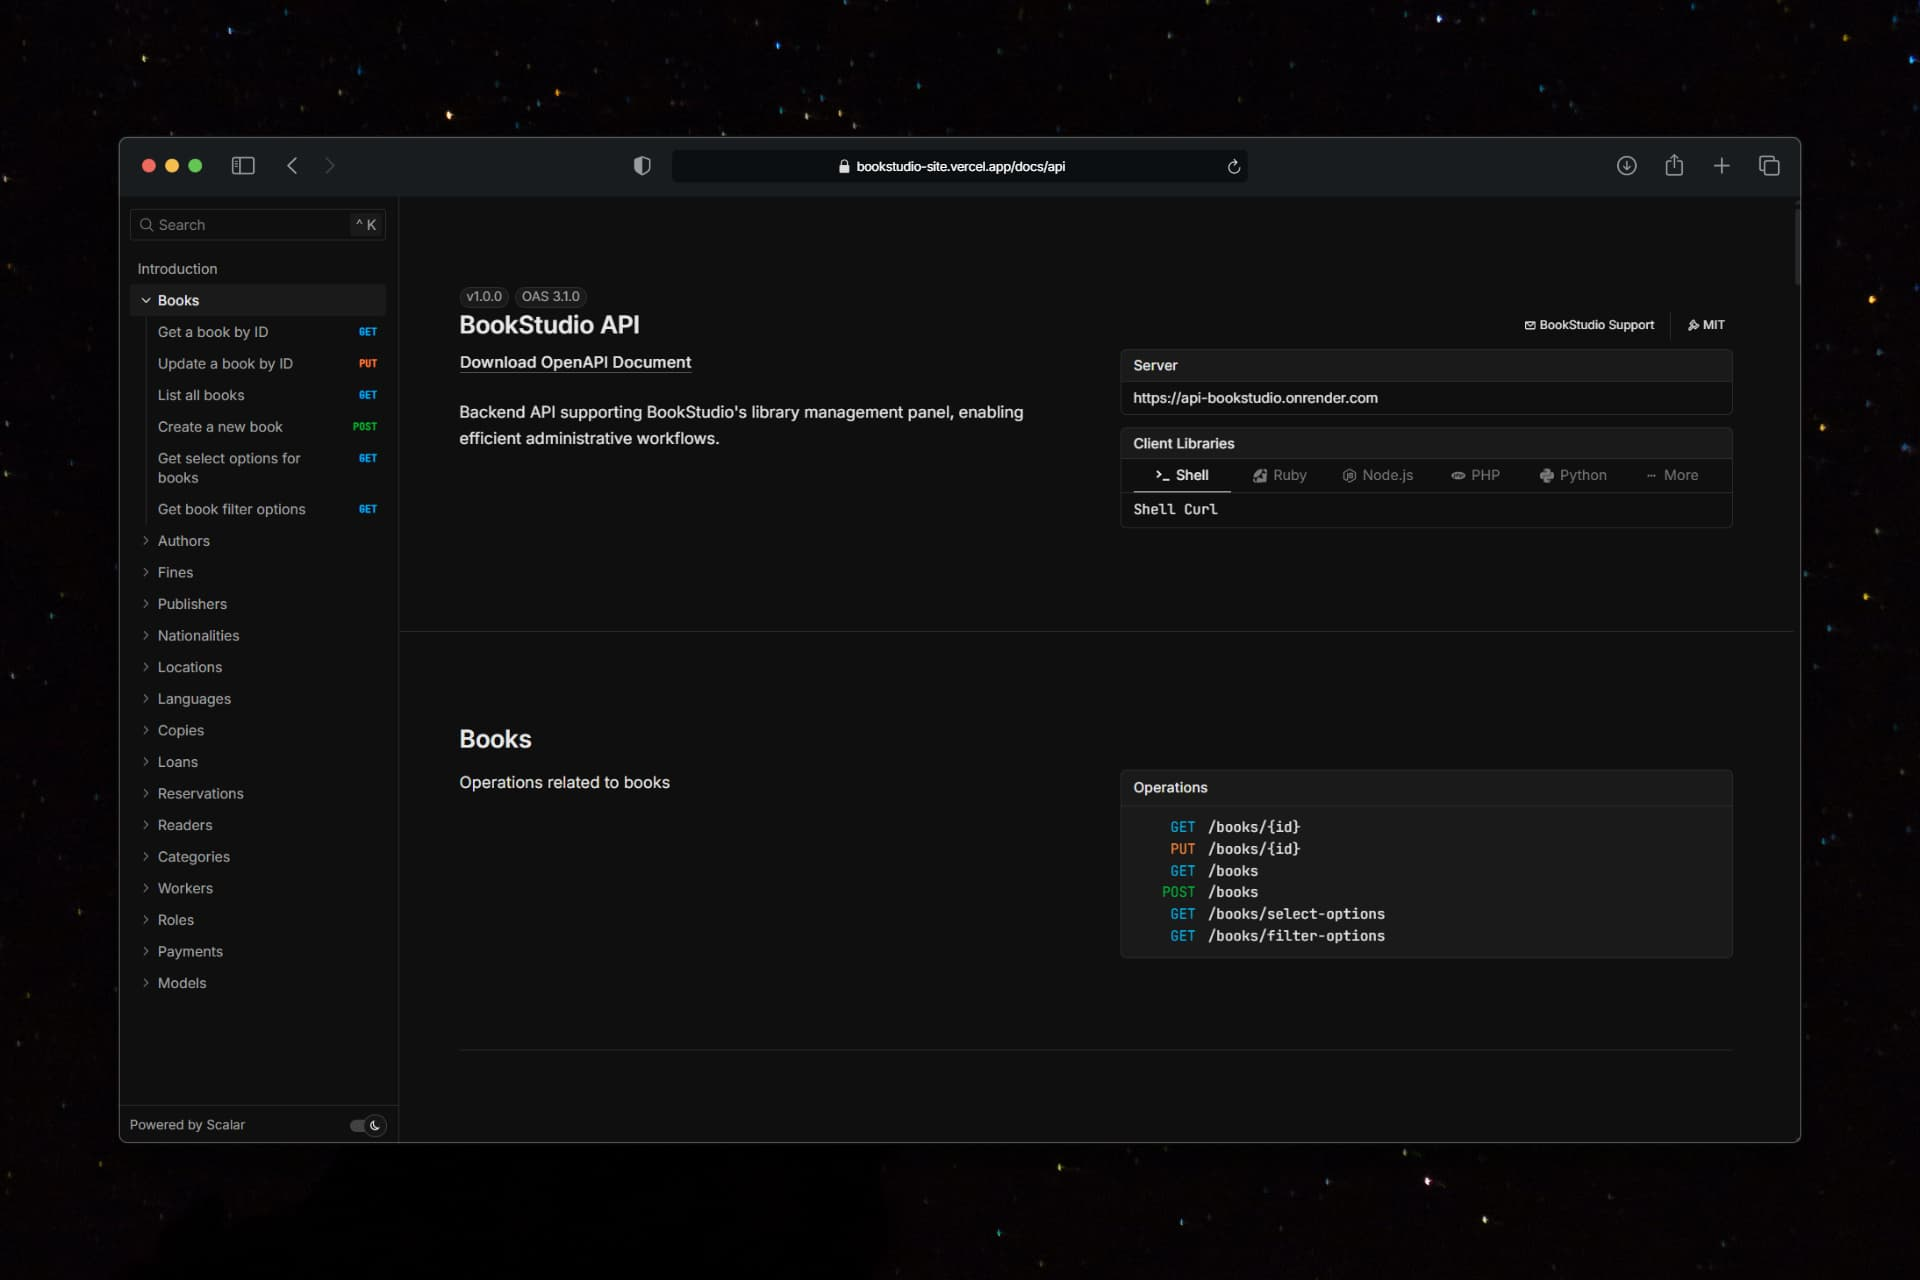
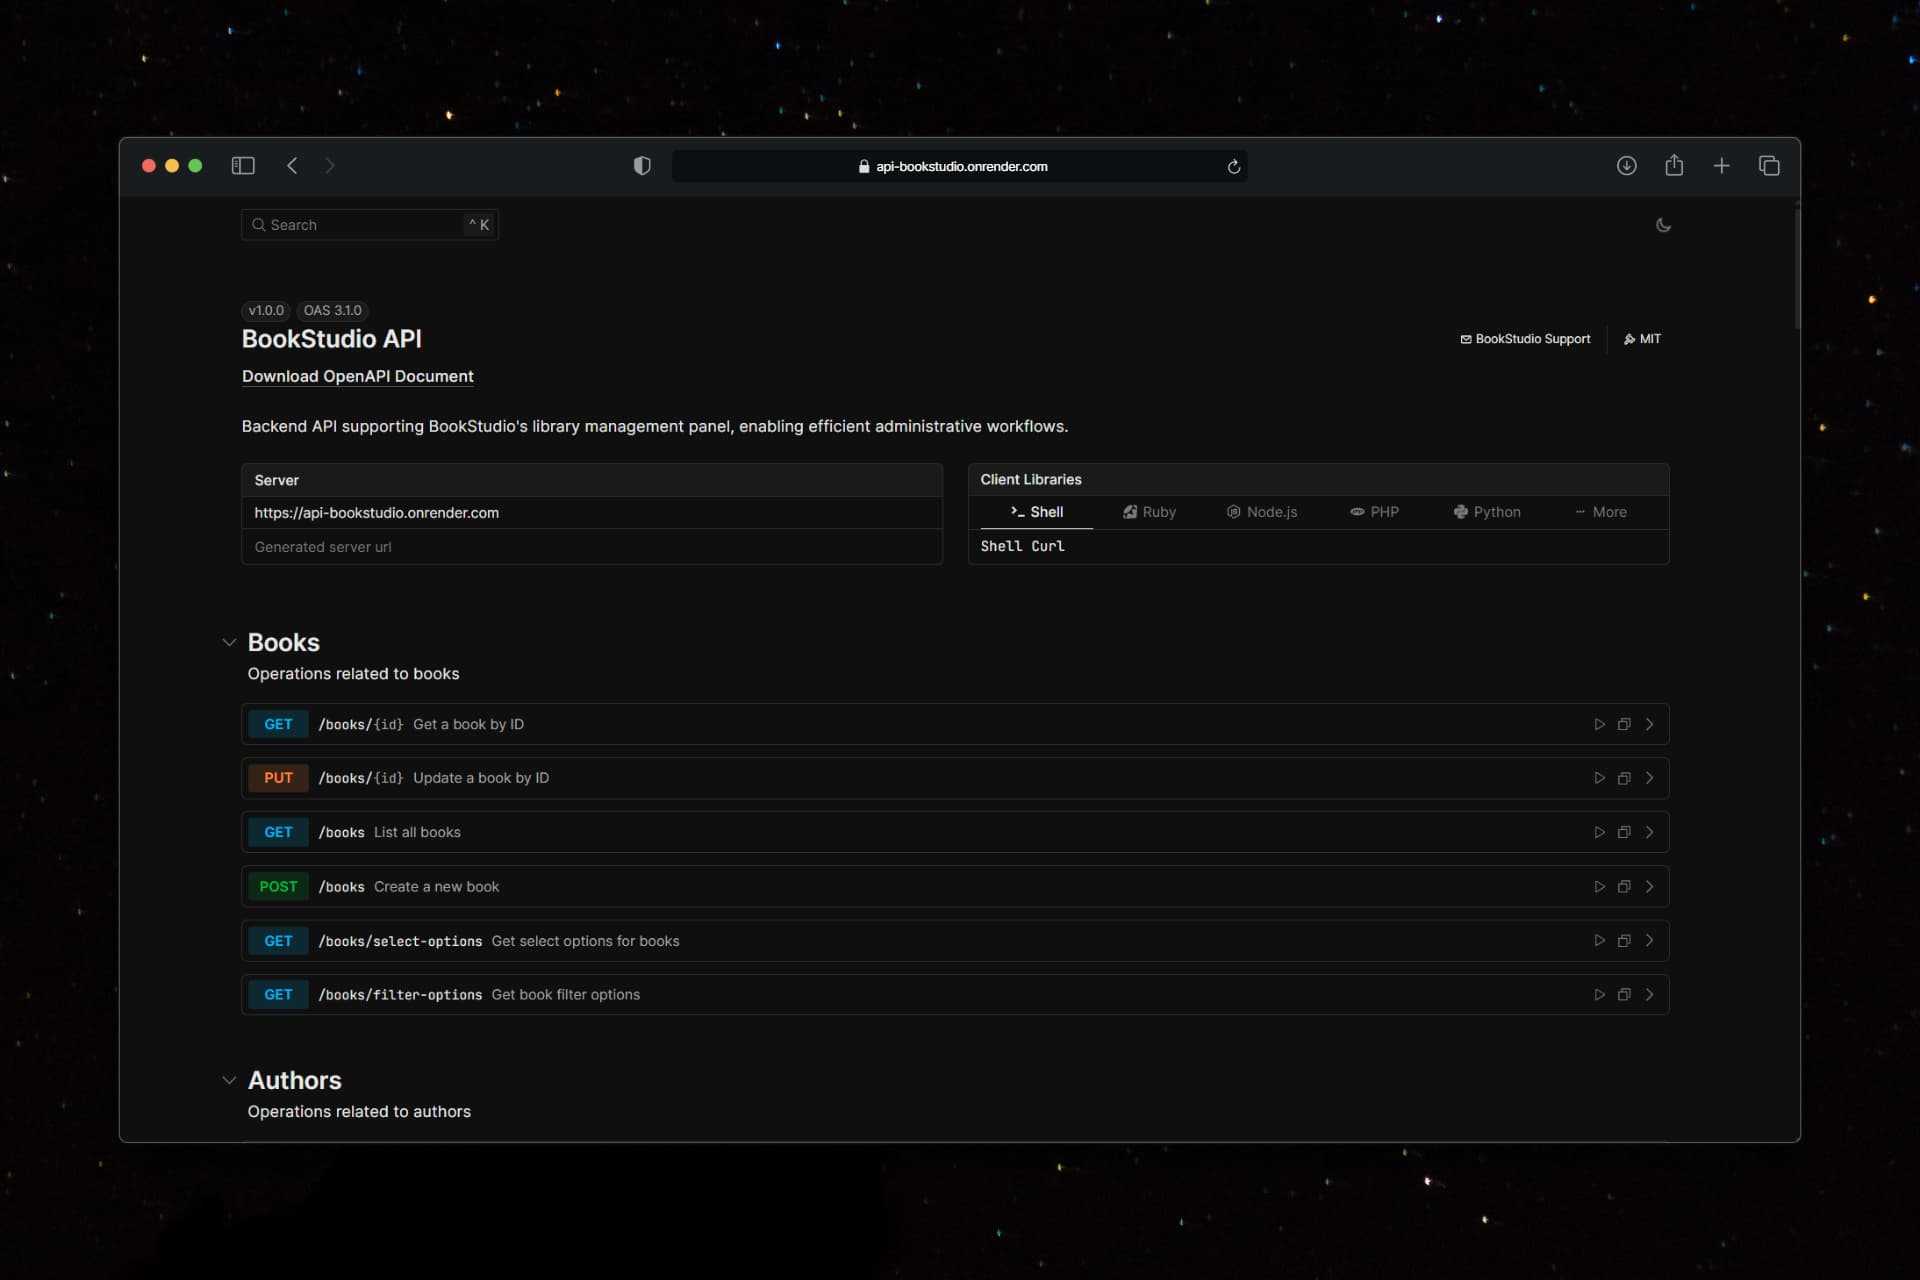
📝 docs: update README.md

diff --git a/README.md b/README.md
@@ -1,5 +1,5 @@
 <div align="center">
-  <a href="https://bookstudio-site.vercel.app/docs/api">
+  <a href="https://api-bookstudio.onrender.com">
     <img src="./images/readme.jpg" alt="Preview">
   </a>
   <p></p>
